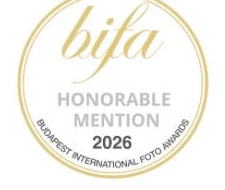
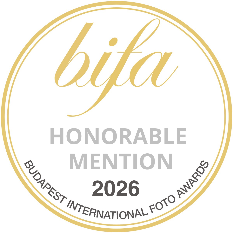
fix(mobile,content): resolve mobile shift, remove deleted gallery photo, drop footer tagline and refine badges

diff --git a/src/components/Navbar.tsx b/src/components/Navbar.tsx
@@ -358,19 +358,19 @@ export const Navbar: React.FC<NavbarProps> = ({
         {/* Brand / Artist Title: SchirZan | Schahrsad Shahmirzadi */}
         <button
           onClick={onGoHome}
-          className="text-left rtl:text-right group focus:outline-none cursor-pointer flex items-center gap-2.5 sm:gap-3 shrink-0"
+          className="text-left rtl:text-right group focus:outline-none cursor-pointer flex items-center gap-2 sm:gap-3 min-w-0 shrink"
         >
           <img
             src={resolveAsset('/images/schirzan-logo.png')}
             alt="SchirZan"
-            className="w-9 h-9 sm:w-10 sm:h-10 object-contain drop-shadow-2xs group-hover:scale-105 transition-transform duration-300 shrink-0"
+            className="w-8 h-8 sm:w-10 sm:h-10 object-contain drop-shadow-2xs group-hover:scale-105 transition-transform duration-300 shrink-0"
           />
-          <div className="flex items-center space-x-2 rtl:space-x-reverse">
-            <span className="text-xl sm:text-2xl font-serif tracking-widest font-bold text-stone-900 group-hover:text-stone-700 transition-colors">
+          <div className="flex items-center space-x-1.5 sm:space-x-2 rtl:space-x-reverse min-w-0">
+            <span className="text-lg sm:text-2xl font-serif tracking-wider sm:tracking-widest font-bold text-stone-900 group-hover:text-stone-700 transition-colors shrink-0">
               SchirZan
             </span>
-            <span className="text-stone-300 text-base sm:text-lg font-light">|</span>
-            <span className="text-stone-700 text-sm sm:text-base font-serif tracking-wide font-medium">
+            <span className="text-stone-300 text-sm sm:text-lg font-light hidden sm:inline">|</span>
+            <span className="text-stone-700 text-xs sm:text-base font-serif tracking-wide font-medium hidden sm:inline truncate">
               {currentLang === 'fa' ? 'شهرزاد شاهمیرزادی' : 'Schahrsad Shahmirzadi'}
             </span>
           </div>

diff --git a/src/components/HeaderIntro.tsx b/src/components/HeaderIntro.tsx
@@ -59,7 +59,7 @@ export const HeaderIntro: React.FC<HeaderIntroProps> = ({
 
             {/* Main Personal Title */}
             <div className="space-y-2">
-              <h1 className="text-3xl sm:text-4xl md:text-5xl lg:text-[2.65rem] xl:text-[3.15rem] font-serif tracking-tight text-stone-900 leading-[1.15] font-bold">
+              <h1 className="text-2xl sm:text-4xl md:text-5xl lg:text-[2.65rem] xl:text-[3.15rem] font-serif tracking-tight text-stone-900 leading-[1.15] font-bold break-words">
                 {currentLang === 'fa' ? 'شیرزن | شهزاد شاهمیرزادی' : 'SchirZan | Schahrsad Shahmirzadi'}
               </h1>
 
@@ -270,6 +270,13 @@ export const HeaderIntro: React.FC<HeaderIntroProps> = ({
                   className="w-full h-full object-cover object-center group-hover:scale-102 transition-transform duration-500 ease-out select-none"
                   loading="eager"
                 />
+
+                {/* Name-Tag direkt auf dem Bild */}
+                <div className="absolute bottom-3 left-3 z-10 pointer-events-none">
+                  <span className="inline-flex items-center px-2 py-0.5 bg-stone-900/85 backdrop-blur-xs text-white rounded text-xs font-medium tracking-wide shadow-xs">
+                    {currentLang === 'fa' ? 'شیرزن' : 'SchirZan'}
+                  </span>
+                </div>
 
                 <div className="absolute top-3 right-3 bg-white/90 text-stone-700 p-2 rounded-md opacity-0 group-hover:opacity-100 transition-opacity shadow-xs">
                   <Maximize2 className="w-4 h-4" />

diff --git a/src/data/galleryData.ts b/src/data/galleryData.ts
@@ -153,17 +153,6 @@ export const GALLERY_PAGE_DATA: GallerySectionData = {
         captionDe: 'Adidas City Night Run Berlin 2026: An der Kaiser-Wilhelm-Gedächtniskirche in Solidarität mit den Opfern des CSD 2026 – Für queeres Leben, Vielfalt und Freiheit.',
         captionEn: 'Adidas City Night Run Berlin 2026: In Solidarity with the Victims of the CSD 2026 Attack – for Queer Lives, Diversity and Freedom at the Kaiser Wilhelm Memorial Church.',
         captionFa: 'دو شبانه آدیداس برلین ۲۰۲۶: در همبستگی با قربانیان حادثه CSD ۲۰۲۶ – برای زندگی کوئیر، تنوع و آزادی در کنار کلیسای یادبود قیصر ویلهلم.'
-      },
-      {
-        id: 'run-gallery-05',
-        src: './images/2025_07_image00055-1-scaled.webp',
-        alt: 'Sommertraining Berlin – Dynamik & Frische',
-        locationDe: 'Sommertraining · Berlin',
-        locationEn: 'Summer Training · Berlin',
-        locationFa: 'تمرین تابستانی · برلین',
-        captionDe: 'Sommertraining in Berlin — Momentaufnahme von Frische, Dynamik und Energie während der Vorbereitung auf die Langstrecke.',
-        captionEn: 'Summer training in Berlin — An impression of vitality, dynamic momentum, and focus during endurance preparation.',
-        captionFa: 'تمرین تابستانی در برلین — تصویری از طراوت، انرژی و تمرکز در طول دوره آمادهسازی استقامت.'
       }
     ]
   },

diff --git a/src/components/Footer.tsx b/src/components/Footer.tsx
@@ -24,13 +24,6 @@ export const Footer: React.FC<FooterProps> = ({
               <span className="text-xl font-serif text-amber-900 font-bold tracking-wider leading-none">
                 {currentLang === 'fa' ? 'شیرزن · SchirZan' : 'SchirZan'}
               </span>
-              <span className="text-[9.5px] font-mono tracking-widest uppercase text-stone-500 font-semibold mt-1.5">
-                {currentLang === 'de'
-                  ? 'KUNST · KAMPF · VISION'
-                  : currentLang === 'fa'
-                    ? 'هنر · مبارزه · آرمان'
-                    : 'ART · FIGHT · VISION'}
-              </span>
             </div>
             <p className="text-stone-800 font-sans text-xs font-semibold">
               {currentLang === 'de'

diff --git a/src/components/AwardReferencesSection.tsx b/src/components/AwardReferencesSection.tsx
@@ -692,7 +692,7 @@ export const AWARD_COMPETITIONS: CompetitionItem[] = [
     scopeDe: 'Globaler Wettbewerb mit einer renommierten Jury aus internationalen Galerist:innen, Bildredakteur:innen und Verleger:innen.',
     scopeEn: 'Highly respected international competition juried by leading gallery owners, publishers, and photography editors.',
     scopeFa: 'مسابقه معتبر عکاسی با داوری مدیران گالریها و ناشران برجسته بینالمللی.',
-    badgeImage: '/images/2025_12_nd_awards_hm_2025.webp',
+    badgeImage: '/images/badges_custom/nd_awards_2025_hm.png',
     mainDirectoryUrl: 'https://ndawards.net/winners-gallery/nd-awards-2025/non-professional/honorable-mentions/',
     honors: [
       {

diff --git a/src/App.tsx b/src/App.tsx
@@ -287,7 +287,7 @@ export default function App() {
   return (
     <div
       dir={currentLang === 'fa' ? 'rtl' : 'ltr'}
-      className="min-h-screen bg-[#faf8f5] text-stone-900 flex flex-col font-sans selection:bg-amber-200 selection:text-amber-950 w-full"
+      className="min-h-screen bg-[#faf8f5] text-stone-900 flex flex-col font-sans selection:bg-amber-200 selection:text-amber-950 w-full max-w-full overflow-x-hidden"
     >
       {/* EXCLUSIVELY ONE UNIFIED NAVIGATION BAR */}
       <Navbar

diff --git a/src/index.css b/src/index.css
@@ -4,6 +4,8 @@
   html {
     scroll-behavior: smooth;
     scroll-padding-top: 5rem;
+    overflow-x: hidden;
+    max-width: 100vw;
   }
 
   body {
@@ -15,6 +17,8 @@
     -moz-osx-font-smoothing: grayscale;
     text-rendering: optimizeLegibility;
     min-height: 100vh;
+    overflow-x: hidden;
+    max-width: 100vw;
   }
 
   /* Verbessere Lesbarkeit auf PC-Bildschirmen: Keine zu dünnen 300er-Schriften */
